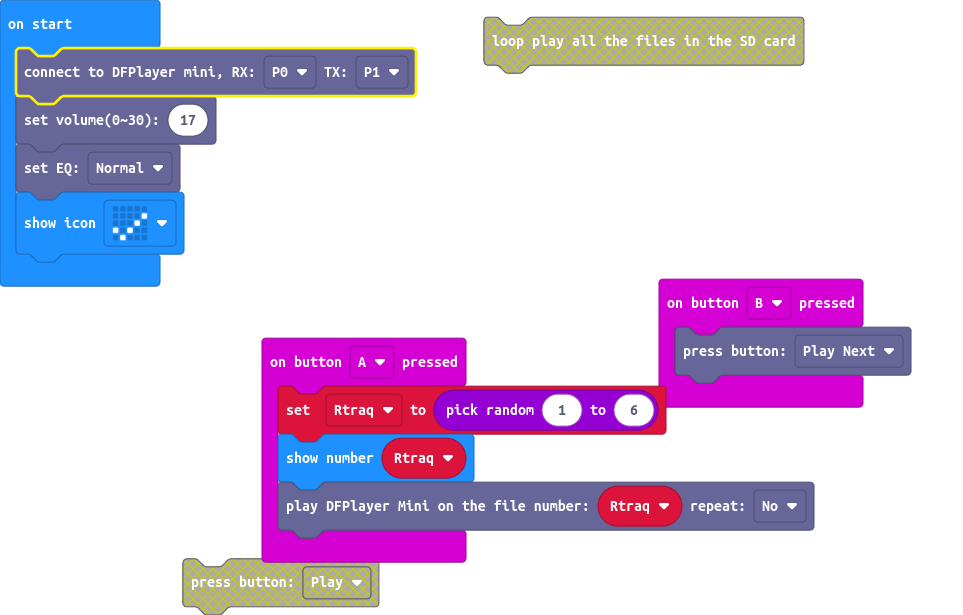
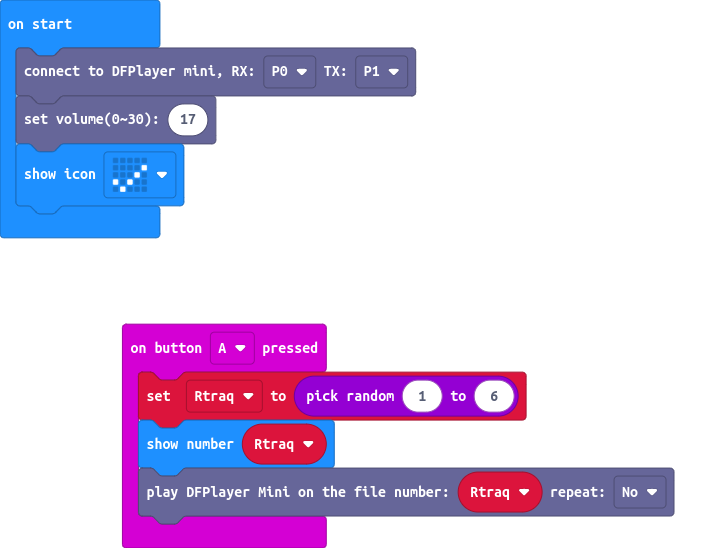
tidy prior to sharing

diff --git a/main.ts b/main.ts
@@ -3,11 +3,7 @@ input.onButtonPressed(Button.A, function () {
     basic.showNumber(Rtraq)
     dfplayermini.playFile(Rtraq, dfplayermini.isRepeat.No)
 })
-input.onButtonPressed(Button.B, function () {
-    dfplayermini.press(dfplayermini.playType.PlayNext)
-})
 let Rtraq = 0
 dfplayermini.connect(SerialPin.P0, SerialPin.P1)
 dfplayermini.setVolume(17)
-dfplayermini.setEQ(dfplayermini.EQ.Normal)
 basic.showIcon(IconNames.Yes)
